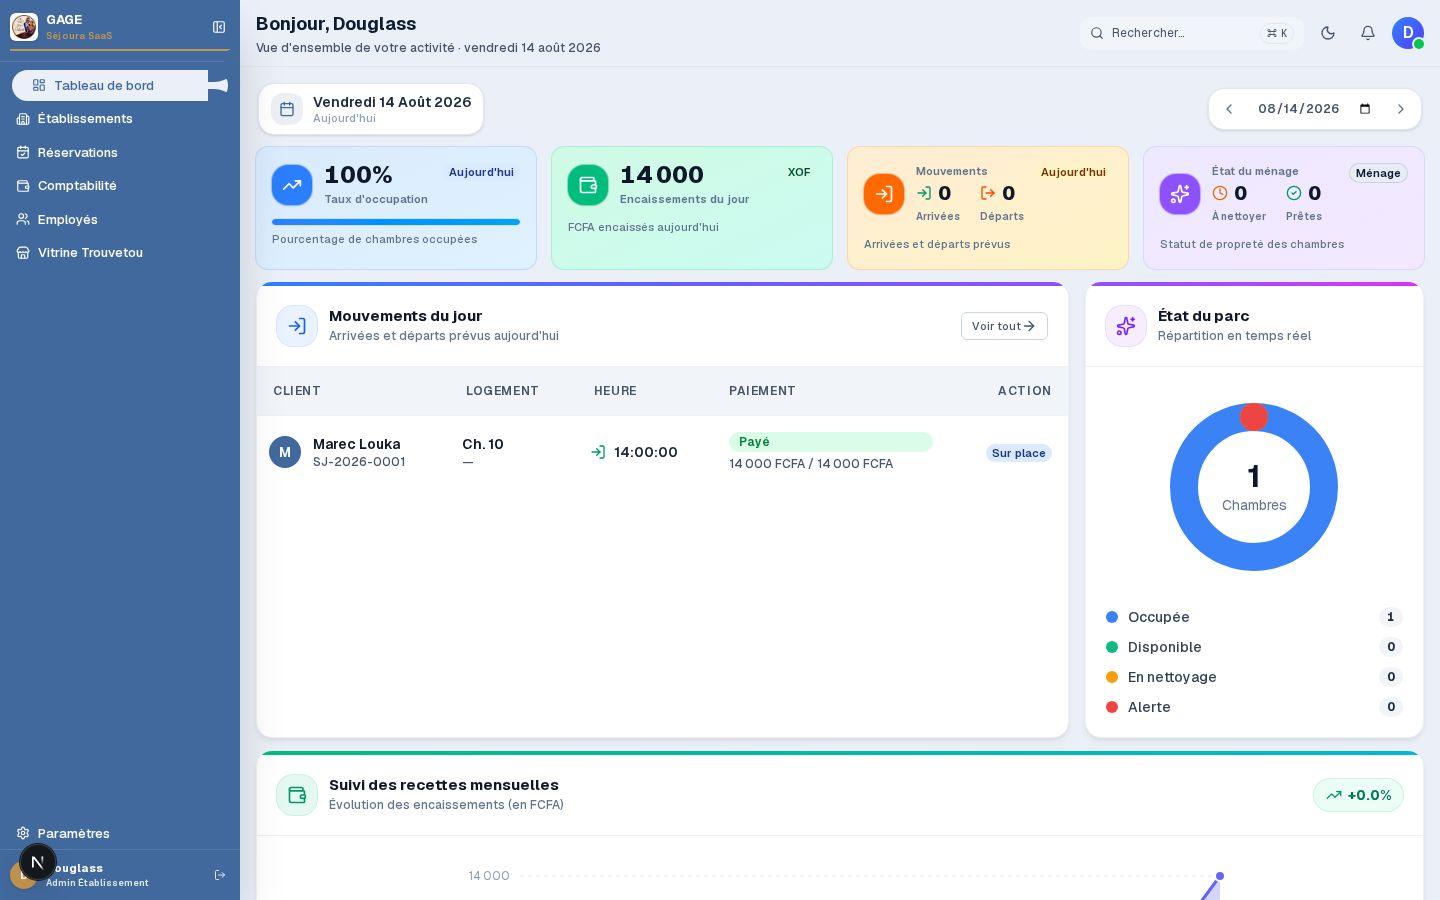
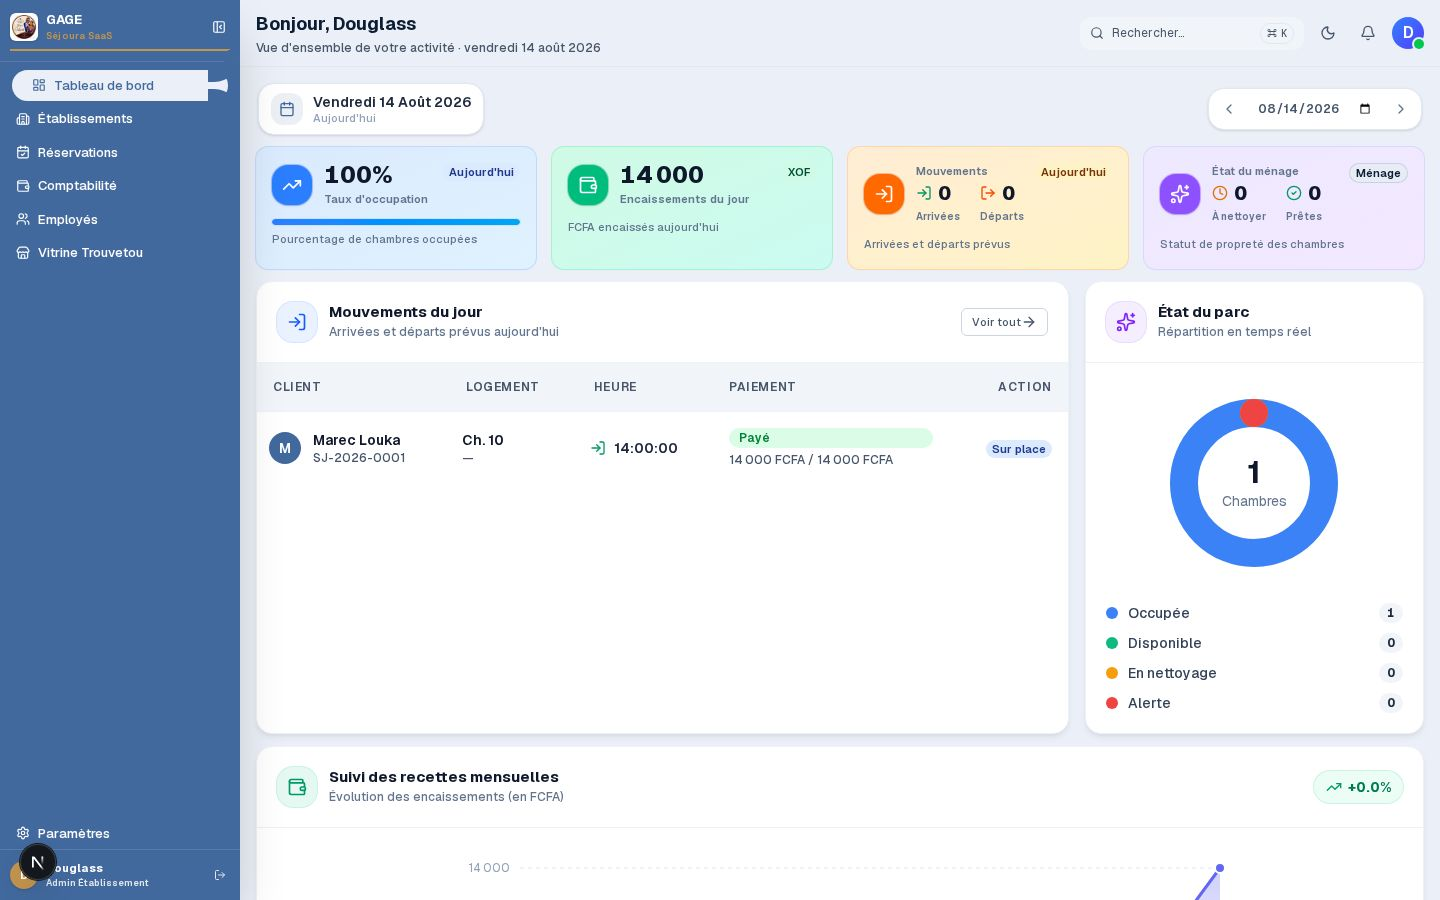
refactor(dashboard): conteneurs sans bande d'accent, bordure raffinée sur 4 côtés
- Suppression du bandeau de couleur en haut des SectionCards
- Bordure uniforme --border-subtle + ombre douce : effet flottant
- La couleur reste portée par les chips d'icônes des en-têtes

diff --git a/src/app/dashboard/page.tsx b/src/app/dashboard/page.tsx
@@ -555,21 +555,18 @@ function LineChart({ data, fmt, currencyCode }: { data: MonthlyRevenueData[]; fm
 }
 
 // ============================================================================
-// SECTION CARD — conteneur avec bandeau d'accent coloré
+// SECTION CARD — conteneur raffiné, bordure uniforme sur les 4 côtés
 // ============================================================================
 
 function SectionCard({
-  accent,
   className = "",
   children,
 }: {
-  accent: string;
   className?: string;
   children: React.ReactNode;
 }) {
   return (
     <div className={`rounded-2xl border border-[var(--border-subtle)] bg-[var(--card-bg,var(--surface))] shadow-[var(--shadow-md)] overflow-hidden ${className}`}>
-      <div className={`h-1 w-full bg-gradient-to-r ${accent}`} />
       {children}
     </div>
   );
@@ -1225,7 +1222,7 @@ export default function DashboardPage() {
       {/* 2. CONTENEUR PRINCIPAL — Mouvements du jour */}
       {isReceptionniste ? (
         /* ── Vue Réceptionniste : Mouvements en pleine largeur avec actions rapides ── */
-        <SectionCard accent="from-blue-500 via-indigo-500 to-violet-500">
+        <SectionCard>
           <SectionHeader
             icon={<LogIn className="w-5 h-5" />}
             iconClass="bg-blue-500/10 text-blue-600 dark:text-blue-300 ring-blue-500/20"
@@ -1357,7 +1354,7 @@ export default function DashboardPage() {
         /* ── Vue Admin : 70% mouvements + 30% donut ── */
         <div className="grid grid-cols-1 lg:grid-cols-10 gap-4">
           {/* Tableau des mouvements (70%) */}
-          <SectionCard accent="from-blue-500 via-indigo-500 to-violet-500" className="lg:col-span-7">
+          <SectionCard className="lg:col-span-7">
             <SectionHeader
               icon={<LogIn className="w-5 h-5" />}
               iconClass="bg-blue-500/10 text-blue-600 dark:text-blue-300 ring-blue-500/20"
@@ -1485,7 +1482,7 @@ export default function DashboardPage() {
           </SectionCard>
 
           {/* Donut Chart — État du parc (30%) */}
-          <SectionCard accent="from-violet-500 via-purple-500 to-fuchsia-500" className="lg:col-span-3">
+          <SectionCard className="lg:col-span-3">
             <SectionHeader
               icon={<Sparkles className="w-5 h-5" />}
               iconClass="bg-violet-500/10 text-violet-600 dark:text-violet-300 ring-violet-500/20"
@@ -1534,7 +1531,7 @@ export default function DashboardPage() {
 
       {/* 4. CONTENEUR INFÉRIEUR — Graphique linéaire des recettes (réservé aux admins) */}
       {!isReceptionniste && (
-        <SectionCard accent="from-emerald-500 via-teal-500 to-cyan-500">
+        <SectionCard>
           <SectionHeader
             icon={<Wallet className="w-5 h-5" />}
             iconClass="bg-emerald-500/10 text-emerald-600 dark:text-emerald-300 ring-emerald-500/20"
